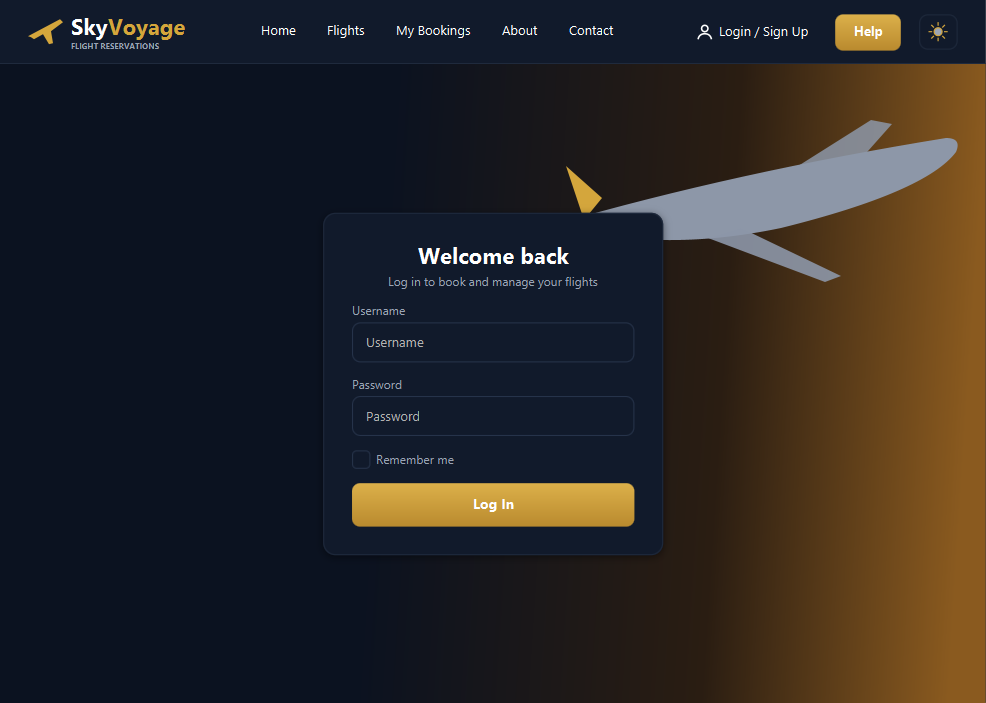
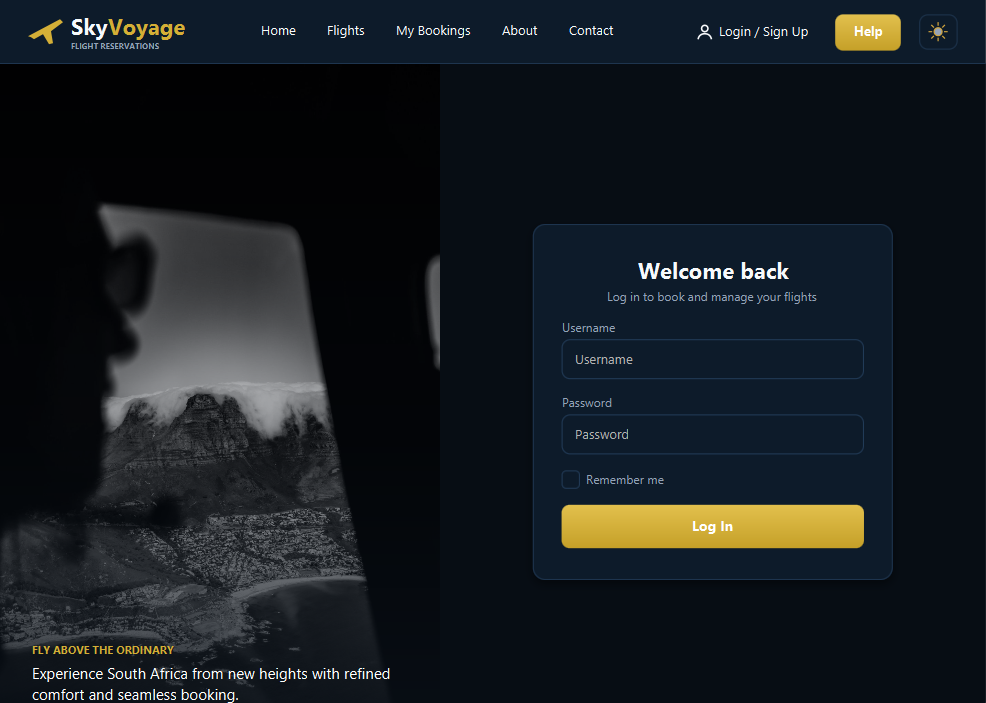
feat(desktop): elevate 02 login screen with split photographic layout

diff --git a/desktop/src/main/resources/com/group2/flightres/css/skyvoyage.css b/desktop/src/main/resources/com/group2/flightres/css/skyvoyage.css
@@ -761,8 +761,29 @@
 }
 
 /* -------------------------------------------------------------------
- * Login Screen Specifics
+ * Login Screen Specifics (Elevated Split-Screen Layout)
  * ------------------------------------------------------------------- */
+.login-split-root {
+    -fx-background-color: -sv-page;
+}
+
+.login-photo-overlay {
+    -fx-background-color: linear-gradient(to top, rgba(10, 17, 24, 0.88) 0%, rgba(10, 17, 24, 0.35) 45%, rgba(10, 17, 24, 0.10) 100%);
+}
+
+.login-tagline-caps {
+    -fx-font-size: 11px;
+    -fx-font-weight: 700;
+    -fx-text-fill: -sv-gold-primary;
+}
+
+.login-photo-quote {
+    -fx-font-size: 15px;
+    -fx-font-weight: 600;
+    -fx-text-fill: #ffffff;
+    -fx-line-spacing: 2px;
+}
+
 .login-card {
     -fx-background-color: -sv-surface;
     -fx-background-radius: 12px;
@@ -770,7 +791,7 @@
     -fx-border-width: 1px;
     -fx-border-radius: 12px;
     -fx-effect: -sv-card-shadow;
-    -fx-padding: 28px;
+    -fx-padding: 32px 28px;
 }
 
 .login-card-title {

diff --git a/desktop/src/main/java/com/group2/flightres/controller/LoginController.java b/desktop/src/main/java/com/group2/flightres/controller/LoginController.java
@@ -40,6 +40,13 @@ public class LoginController implements WizardStepController {
     }
 
     @FXML
+    public void initialize() {
+        if (loginButton != null) {
+            com.group2.flightres.util.Motion.attachHoverLift(loginButton);
+        }
+    }
+
+    @FXML
     private void handleLogin() {
         String username = usernameField.getText().trim();
         String password = passwordField.getText();
